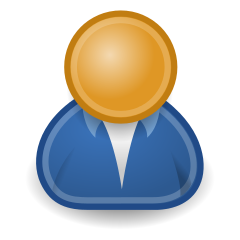
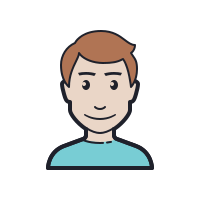
Font and bg fix

diff --git a/sistema/src/styles/global.js b/sistema/src/styles/global.js
@@ -1,36 +1,53 @@
 import { createGlobalStyle } from 'styled-components';
-
+import bg from '../assets/others/wave.svg';
+import bgFooter from '../assets/others/wave_footer.svg';
 
 export default createGlobalStyle`
-*{
-    margin:0;
-    padding:0;
-    box-sizing:border-box;
-    font-family: 'Trebuchet MS', 'Lucida Sans Unicode', 'Lucida Grande', 'Lucida Sans', Arial, sans-serif;
+@import url('https://fonts.googleapis.com/css?family=PT+Sans+Narrow&display=swap');
 
+  * {
+    margin: 0;
+    padding: 0;
+    box-sizing: border-box;
+    font-family: 'PT Sans Narrow', sans-serif !important;
+  }
 
-}
-html{
-    background: linear-gradient( #FFEFBA,#FFFFFF);
-    scroll-behavior:smooth;
-}
-body,
+  html {
+    scroll-behavior: smooth;
+  }
 
-ul{
-    list-style-type:none;
-}
+  body {
+    font-family: 'PT Sans Narrow', sans-serif;
+   
+  }
 
-li{
-    list-style:none;
-}
+  ul {
+    list-style-type: none;
+  }
 
-a{
+  li {
+    list-style: none;
+  }
+
+  a {
     text-decoration: none;
-}
-.main-container {
-    display:flex;
+  }
+
+  #bgImageTop {
+    background-image: url(${bg});
+    background-repeat: no-repeat;
+    background-size: 100%;
+  }
+
+  #bgImage {
+    background-image: url(${bgFooter});
+    background-repeat: no-repeat;
+    background-position: bottom;
+  }
+
+  .main-container {
+    display: flex;
     justify-content: space-between;
-    -ms-flex-pack:justify;
     min-height: 100vh;
-}
-`
+  }
+`;

diff --git a/sistema/src/components/Header/index.js b/sistema/src/components/Header/index.js
@@ -1,13 +1,8 @@
 import React, { useState, useEffect } from "react";
 import { Link } from "react-router-dom";
 
-
 import { isAuthenticate } from "../../services/auth.js";
-import api from '../../services/api.js';
-
-import userIcon from '../../assets/others/saida.png'
-
-
+import api from "../../services/api.js";
 import Logo from "../../assets/img/brasao.png";
 import {
   Container,
@@ -57,17 +52,13 @@ const HeaderComponent = props => {
               </NavbarItem>
               <NavbarItem path="/">
                 <Link to="/notifications">Notificações</Link>
-
               </NavbarItem>
             </ul>
           </nav>
           <nav>
-            <NavbarItem>
-                <ul>
-                 <LogoStyle src={userIcon}/>
-                  {user ? user.name:'Error'}
-                  </ul>
-            </NavbarItem>
+              <NavbarItem>
+                <ul>{user ? user.name : "Acessando..."}</ul>
+              </NavbarItem>
           </nav>
         </Navigation>
       </Header>

diff --git a/sistema/src/components/Header/styles.js b/sistema/src/components/Header/styles.js
@@ -1,4 +1,5 @@
 import styled from "styled-components";
+import userIcon from '../../assets/others/user.png'
 
 export const Container = styled.div`
   user-select: none;
@@ -23,7 +24,7 @@ export const Header = styled.header`
   align-items: center;
   padding: 0 100px;
   height: 40px; /*Largua da navbar*/
-  background: linear-gradient(#799F0C,#acbb78); /*Cor da background da navbar*/
+  background: linear-gradient(#373B44,#4286f4); /*Cor da background da navbar*/
   box-shadow: 0 0 10px 1px rgba(0, 0, 0, 0.3);
 
   @media (max-width: 500px) {
@@ -46,8 +47,8 @@ export const FixedItems = styled.div`
   }
 `;
 export const LogoStyle = styled.img`
-  width: 30px;
-  height: 30px;
+  width: 40px;
+  height: 40px;
 `;
 
 
@@ -138,7 +139,9 @@ export const NavbarItem = styled.li`
   }
   ul{
     color:white;
+
   }
+  
 `;
 
 

diff --git a/sistema/src/pages/home/styles.js b/sistema/src/pages/home/styles.js
@@ -12,7 +12,6 @@ export const Container = styled.div`
 `;
 
 export const FormContainer = styled.div`
-@import url('https://fonts.googleapis.com/css?family=Saira+Semi+Condensed&display=swap');
   display: flex;
   flex-direction: column;
   align-items: center;
@@ -28,12 +27,7 @@ export const FormContainer = styled.div`
     font-weight: 700;
     margin-bottom: 20px;
     color: #D31027;
-    font-family: 'Saira Semi Condensed', sans-serif;
     /*color: ${props => props.theme.favColor};*/
-    
-  }
-  h6{
-    font-family: 'Saira Semi Condensed', sans-serif;
     
   }
 `;

diff --git a/sistema/src/App.js b/sistema/src/App.js
@@ -1,17 +1,16 @@
 import React from "react";
-
 //Default style
-import GlobalStyle from "./styles/global";
-
+import GlobalStyle from "./styles/global.js";
 //importando routes
 import Routes from "./router";
-
-
-
 const App = () => (
   <div>
-    <Routes />
-    <GlobalStyle />
+    <div id="bgImageTop">
+      <div id="bgImage">
+        <Routes />
+        <GlobalStyle />
+      </div>
+    </div>
   </div>
 );
 

diff --git a/sistema/src/pages/dashboard/styles.js b/sistema/src/pages/dashboard/styles.js
@@ -7,10 +7,10 @@ export const Container = styled.div`
   justify-content: center;
   box-sizing: border-box;
  h1{
-   font-family: 'Trebuchet MS', 'Lucida Sans Unicode', 'Lucida Grande', 'Lucida Sans', Arial, sans-serif;
    margin-top: 12px;
    font-size: 30px;
-   color: blueviolet;
+   color: whitesmoke;
+   text-shadow: 1px 2px 2px black;
  }
 `;
 

diff --git a/sistema/src/components/Footer/styles.js b/sistema/src/components/Footer/styles.js
@@ -26,7 +26,7 @@ export const DeveloperContainer = styled.div`
   font-size: 14px;
   font-weight: 300;
   color: #000;
-  background: linear-gradient(#799F0C,#acbb78);
+  background: linear-gradient(#373B44,#4286f4);
 
   
 `;

diff --git a/sistema/src/pages/cadastro/styles.js b/sistema/src/pages/cadastro/styles.js
@@ -20,7 +20,6 @@ export const FormContainer = styled.div`
     h4{
       text-align:center;
       margin-top: 30px;
-      font-family: 'Times New Roman', Times, serif;
       font-size: 15px;
       color:#EA384D;
     }

diff --git a/sistema/src/pages/dashboard/index.js b/sistema/src/pages/dashboard/index.js
@@ -4,7 +4,6 @@ import { Container } from "./styles";
 
 const dashBoardPage = ({ history }) => {
   var x = localStorage.getItem("user");
-
   return (
     <Container>
       <h1>Bem vindo(a) {x}</h1>
